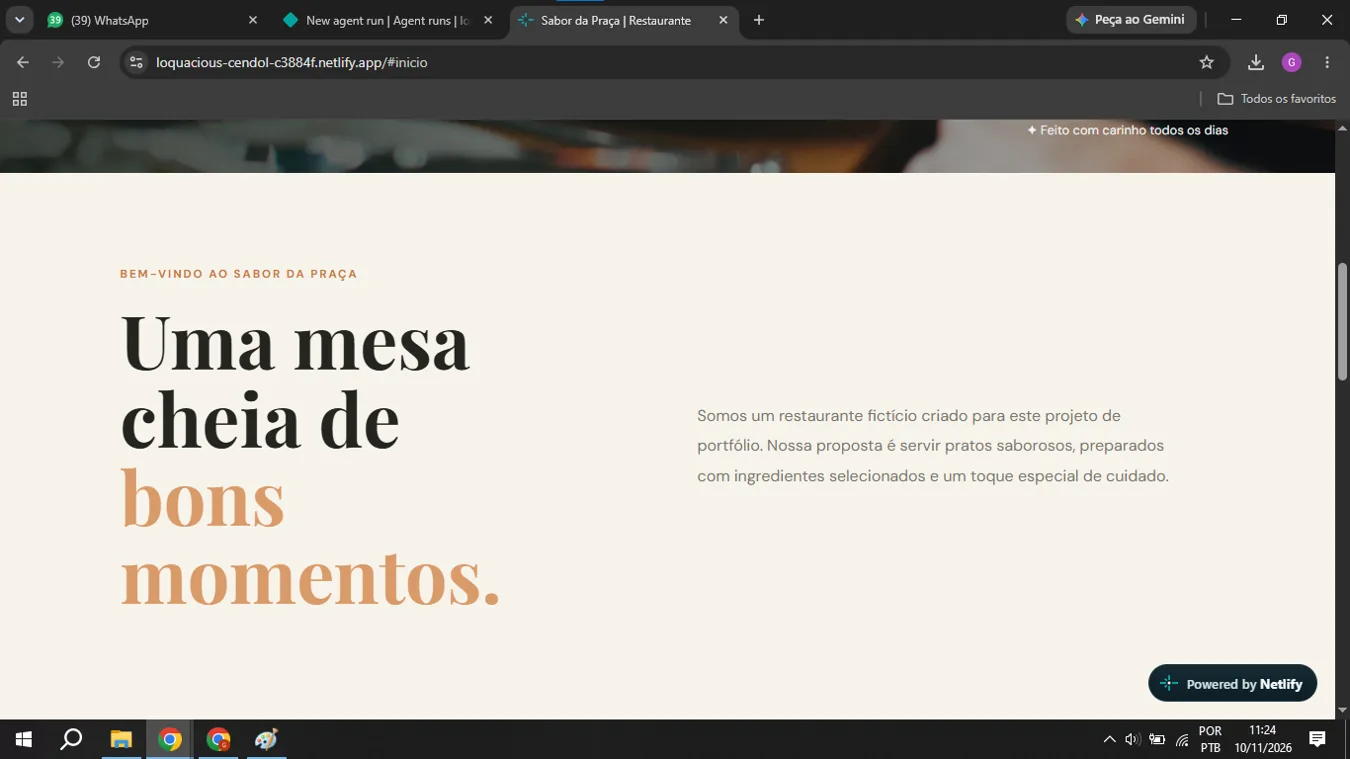
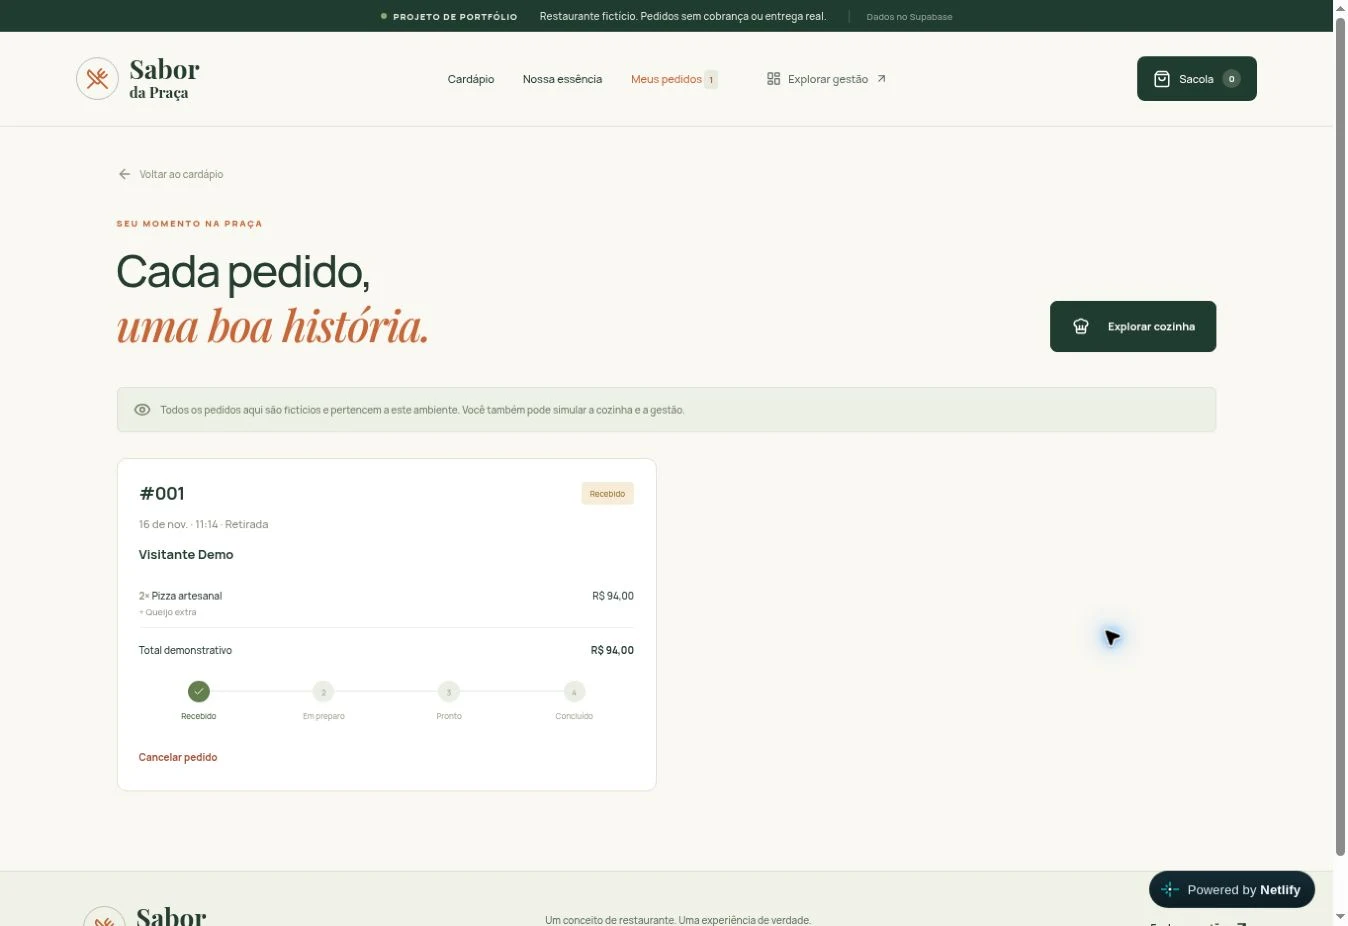
Atualiza Sabor da Praça no portfólio

diff --git a/app.js b/app.js
@@ -3,7 +3,7 @@ const PROJECTS = [
  {id:'shopcore',name:'ShopCore V6',category:'sistemas',type:'E-commerce com painel administrativo',description:'Loja virtual demonstrativa com catálogo e carrinho interativos, autenticação de administrador, gestão de preços e estoque e integração com Supabase. Não processa pagamentos reais.',technologies:['React','TypeScript','Vite','Supabase','RLS','Git'],features:['Catálogo de oito produtos demonstrativos','Login administrativo com autenticação','Gerenciamento de preço, estoque e visibilidade','Persistência no Supabase e políticas RLS','15 testes automatizados aprovados e deploy em produção'],images:['shopcore-1.webp','shopcore-2.webp','shopcore-3.webp'],url:'https://shopcore-ultimate.vercel.app/'},
  {id:'nexora',name:'Nexora',category:'sistemas',type:'Sistema web',description:'Sistema demonstrativo de gestão empresarial com autenticação, cadastro de clientes, financeiro, tarefas e relatórios. Uma experiência organizada para explorar rotinas administrativas.',technologies:['HTML','CSS','JavaScript','Supabase','SQL','RLS'],features:['Autenticação de usuários com Supabase','Cadastro e organização de clientes','Controle de entradas e saídas','Gestão de tarefas e relatórios','Políticas de acesso por usuário no banco'],images:['nexora-1.webp','nexora-2.webp','nexora-3.webp','nexora-4.webp'],url:'https://nexora-zeta-rouge.vercel.app/'},
  {id:'nexdata',name:'NexData',category:'dados',type:'Dashboard e planilhas',description:'Plataforma demonstrativa para importar, validar e visualizar informações de planilhas CSV e Excel diretamente no navegador, com painéis de análise financeira, estoque e administração.',technologies:['HTML','CSS','JavaScript','CSV','Excel','Gráficos'],features:['Importação de arquivos CSV e Excel','Dashboards financeiros e de estoque','Validação e organização de informações','Gráficos e indicadores interativos','Exportação de dados; processamento local no navegador'],images:['nexdata-1.webp','nexdata-2.webp','nexdata-3.webp','nexdata-4.webp'],url:'https://nexdata-seven.vercel.app/'},
- {id:'sabor',name:'Sabor da Praça',category:'sites',type:'Site comercial',description:'Site demonstrativo de restaurante com identidade visual própria, apresentação de cardápio e navegação responsiva. Projeto voltado à divulgação digital de um negócio local.',technologies:['HTML5','CSS3','JavaScript','Responsividade'],features:['Página inicial com apresentação do restaurante','Cardápio visual com informações de produtos','Navegação por seções','Layout adaptado a diferentes telas'],images:['sabor-1.webp','sabor-2.webp','sabor-3.webp'],url:'https://loquacious-cendol-c3884f.netlify.app/'},
+ {id:'sabor', "name": "Sabor da Praça", "category": "sites", "type": "Restaurante com pedidos e gestão", "description": "Restaurante fictício com cardápio interativo, adicionais, sacola, pedidos persistentes e acompanhamento do preparo. Cozinha e gestão demonstrativas conectadas ao Supabase, com dados isolados por visitante e interface responsiva.", "technologies": ["React", "TypeScript", "Supabase", "PostgreSQL", "Realtime", "Vite"], "features": ["Busca, categorias, favoritos e filtro vegetariano", "Adicionais, sacola e checkout fictício para retirada ou mesa", "Acompanhamento e cancelamento inicial de pedidos", "Cozinha com etapas de recebimento, preparo, pronto e conclusão", "Gestão de cardápio, disponibilidade, indicadores e exportação CSV", "Preços e estoque validados no servidor; proteção contra pedidos duplicados", "19 testes automatizados; integração online, isolamento e Realtime verificados", "Sem pagamentos ou entregas reais; papéis de cliente, cozinha e gestão simulados"], "images": ["sabor-1.webp", "sabor-2.webp", "sabor-3.webp", "sabor-4.webp"], "url": "https://loquacious-cendol-c3884f.netlify.app/"},
  {id:'bella',"name":"Bella Studio","category":"sites","type":"Site com agendamento e gestão","description":"Salão fictício com agendamento por serviço e profissional, área do cliente e painel de gestão. Interface responsiva com fotos ilustrativas, personagens e dados persistidos em ambientes demonstrativos separados.","technologies":["React","TypeScript","Cloudflare D1","SQLite","Vinext","Drizzle"],"features":["Reserva por serviço, profissional, data e horário disponível","Personagens fictícias com avatar e apresentação","Remarcação e cancelamento com regras de antecedência","Gestão de serviços, profissionais e bloqueios da agenda","Indicadores calculados sobre os atendimentos e histórico de ações","Exportações CSV e calendário; banco persistente D1","21 testes automatizados e 10 verificações HTTP na prévia","Sem cobranças reais; perfis cliente e gestora demonstrativos"],"images":["bella-1.webp","bella-2.webp","bella-3.webp","bella-4.webp"],"url":"https://merry-hamster-308b45.netlify.app/"}
 ];
 
@@ -11,14 +11,14 @@ const PROJECT_EXTRA = {
  shopcore:{challenge:['Demonstrar um comércio virtual com áreas públicas e administração protegida.','Demonstrate a shopping experience with public pages and protected administration.'],solution:['Catálogo, simulação de carrinho, login e inventário editável com Supabase.','Catalog, simulated cart, login and editable inventory using Supabase.'],validation:['15 testes automatizados, build de produção e revisão das políticas RLS.','15 automated tests, production build and RLS policy review.']},
  nexora:{challenge:['Organizar informações de gestão em uma interface demonstrativa.','Organize management information in a demonstration interface.'],solution:['Painéis, cadastro, tarefas e autenticação com Supabase.','Dashboards, records, tasks and Supabase authentication.'],validation:['Projeto demonstrativo publicado; funcionalidades descritas sem métricas comerciais.','Published demo; features described without claiming commercial metrics.']},
  nexdata:{challenge:['Tornar planilhas mais fáceis de explorar no navegador.','Make spreadsheets easier to explore in the browser.'],solution:['Importação e visualização de CSV/Excel, indicadores e gráficos.','CSV/Excel importing and visualization with metrics and charts.'],validation:['Demonstração local de tratamento de dados; sem integração financeira real.','Local data-processing demonstration; no real financial integration.']},
- sabor:{challenge:['Apresentar um restaurante fictício com clareza e identidade própria.','Present a fictional restaurant with clarity and its own visual identity.'],solution:['Cardápio visual, seções navegáveis e layout responsivo.','Visual menu, navigable sections and responsive layout.'],validation:['Projeto autoral e demonstrativo, sem pedidos comerciais reais.','Independent demo without real commercial orders.']},
+ sabor:{"challenge": ["Conectar a experiência de um restaurante fictício do cardápio à operação, mantendo os dados separados por visitante.", "Connect a fictional restaurant menu to its operations while isolating each visitor’s demonstration data."], "solution": ["React e TypeScript com pedidos persistentes, regras de estoque e preços no PostgreSQL, cozinha, gestão e sinalização Realtime.", "React and TypeScript with persistent orders, PostgreSQL inventory and pricing rules, kitchen, management and Realtime signals."], "validation": ["19 testes automatizados aprovados. Integração online, idempotência, isolamento, fluxo da cozinha e Realtime verificados. Sem transações comerciais reais.", "19 automated tests passed. Online integration, idempotency, isolation, kitchen workflow and Realtime verified. No real commercial transactions."]},
  bella:{challenge:['Evoluir um site de beleza para demonstrar atendimento e gestão conectados.','Evolve a beauty website into connected booking and management experiences.'],solution:['Agendamento com regras no servidor, área do cliente, gestão, indicadores e personagens fictícias.','Server-validated booking, customer area, management, metrics and fictional characters.'],validation:['21 testes automatizados e 10 verificações HTTP na prévia. Sem pagamentos reais; papéis demonstrativos.','21 automated tests and 10 HTTP checks in preview. No real payments; demonstration roles.']}
 };
 const PROJECT_EN={
  shopcore:{type:'E-commerce with admin dashboard',description:'Demonstration store featuring an interactive catalog and cart, admin login, pricing and inventory management, and Supabase integration. No real payments.',features:['Eight demo products','Authenticated administrator login','Price, inventory and visibility management','Supabase persistence and RLS policies','15 automated tests passed and production deployment']},
  nexora:{type:'Web management system',description:'Demonstration business management system featuring authentication, customer records, finances, tasks and reports.',features:['Supabase user authentication','Customer records and organization','Income and expenses overview','Tasks and reports','User-scoped database policies']},
  nexdata:{type:'Dashboard & spreadsheets',description:'Browser-based demonstration platform for importing, validating and visualizing CSV and Excel spreadsheets.',features:['CSV and Excel imports','Financial and inventory dashboards','Data validation and organization','Interactive charts and indicators','Export and local browser processing']},
- sabor:{type:'Business website',description:'Demonstration restaurant website with custom visual identity, menu presentation and responsive navigation.',features:['Restaurant landing section','Visual menu and product information','Section navigation','Responsive layout']},
+ sabor:{"type": "Restaurant ordering and management", "description": "Fictional restaurant featuring an interactive menu, extras, cart, persistent orders and preparation tracking. Demonstration kitchen and management views use Supabase, visitor-isolated data and a responsive interface.", "features": ["Search, categories, favorites and vegetarian filter", "Extras, cart and simulated pickup or table checkout", "Order tracking and initial cancellation", "Kitchen workflow from received to completed", "Menu, availability, metrics and CSV exports", "Server-validated prices and stock; duplicate-order protection", "19 automated tests; online integration, isolation and Realtime checked", "No real payments or deliveries; simulated customer, kitchen and management roles"]},
  bella:{type:'Website with booking and management',description:'Fictional beauty studio with service and professional booking, a customer area and a management dashboard. Responsive design, illustrative photos, characters and persistent data in separate demo environments.',features:['Book an available service, professional, date and time','Fictional professionals with illustrated avatars and introductions','Rescheduling and cancellation with advance-notice rules','Manage services, professionals and blocked time','Metrics calculated from appointments and an activity history','CSV/calendar exports and persistent D1 storage','21 automated tests and 10 HTTP checks in preview','No real charges; customer and manager are demo perspectives']}
 };
 const localizedProject=p=>window.GL_LANG==='en'?{...p,...PROJECT_EN[p.id]}:p;
@@ -135,7 +135,7 @@ const observer=('IntersectionObserver'in window)?new IntersectionObserver(entrie
   const commands={
     help:'COMANDOS DISPONÍVEIS\nhelp       mostra esta lista\nabout      sobre Gabriel\nprojects   lista projetos\nnexora     abre estudo de caso Nexora\nshopcore   abre estudo de caso ShopCore\nnexdata    abre estudo de caso NexData\nsabor      abre estudo de caso Sabor da Praça\nbella      abre estudo de caso Bella Studio\nskills     habilidades e tecnologias\ncontact    dados de contato\nclear      limpa este terminal\nmatrix     surpresa visual\nexit       fecha o terminal',
     about:'Gabriel Lima — estudante de Análise e Desenvolvimento de Sistemas na Estácio. Desenvolvimento web, interfaces, dashboards e sistemas autorais demonstrativos.',
-    projects:'[01] ShopCore V6 — e-commerce com Supabase\n[02] Nexora — gestão web com Supabase\n[03] NexData — análise de planilhas no navegador\n[04] Sabor da Praça — site para restaurante\n[05] Bella Studio — agendamento e gestão demonstrativos\n\nDigite o nome do projeto para abrir detalhes.',
+    projects:'[01] ShopCore V6 — e-commerce com Supabase\n[02] Nexora — gestão web com Supabase\n[03] NexData — análise de planilhas no navegador\n[04] Sabor da Praça — pedidos, cozinha e gestão com Supabase\n[05] Bella Studio — agendamento e gestão demonstrativos\n\nDigite o nome do projeto para abrir detalhes.',
     skills:'HTML5 / CSS3 / JavaScript / Supabase / SQL / CSV / Excel / Responsividade / Interfaces / Dashboards',
     contact:'WhatsApp: wa.me/5531972120246\nE-mail: gf.dlimaa25@gmail.com\nGitHub: github.com/GFDLima\nLinkedIn: gabriel-lima-565636184/\n\nUse a seção de contato para enviar uma mensagem.'
   };
@@ -155,7 +155,7 @@ const observer=('IntersectionObserver'in window)?new IntersectionObserver(entrie
       if(motionEnabled){document.body.classList.add('neon-flash');setTimeout(()=>document.body.classList.remove('neon-flash'),650)}
       return;
     }
-    const translations=window.GL_LANG==='en'?{help:'AVAILABLE COMMANDS\nhelp — this list\nabout — about Gabriel\nprojects — list projects\nshopcore / nexora / nexdata / sabor / bella — open a case study\nskills — technologies\ncontact — contact details\nclear — clear terminal\nmatrix — visual surprise\nexit — close terminal',about:'Gabriel Lima — Systems Analysis and Development student at Estácio, building demonstration web applications.',projects:'[01] ShopCore — e-commerce with Supabase\n[02] Nexora — business management\n[03] NexData — spreadsheet dashboards\n[04] Sabor da Praça — restaurant website\n[05] Bella Studio — booking and management demo',skills:'HTML5 / CSS3 / JavaScript / React / TypeScript / Supabase / SQL / CSV / Excel / Git',contact:'WhatsApp: wa.me/5531972120246\nEmail: gf.dlimaa25@gmail.com\nGitHub: github.com/GFDLima\nLinkedIn: gabriel-lima-565636184/'}:commands;appendLine(translations[typed]||projectText('Comando desconhecido. Digite help para ver as opções.','Unknown command. Type help for options.'),translations[typed]?'answer':'error');
+    const translations=window.GL_LANG==='en'?{help:'AVAILABLE COMMANDS\nhelp — this list\nabout — about Gabriel\nprojects — list projects\nshopcore / nexora / nexdata / sabor / bella — open a case study\nskills — technologies\ncontact — contact details\nclear — clear terminal\nmatrix — visual surprise\nexit — close terminal',about:'Gabriel Lima — Systems Analysis and Development student at Estácio, building demonstration web applications.',projects:'[01] ShopCore — e-commerce with Supabase\n[02] Nexora — business management\n[03] NexData — spreadsheet dashboards\n[04] Sabor da Praça — ordering, kitchen and management with Supabase\n[05] Bella Studio — booking and management demo',skills:'HTML5 / CSS3 / JavaScript / React / TypeScript / Supabase / SQL / CSV / Excel / Git',contact:'WhatsApp: wa.me/5531972120246\nEmail: gf.dlimaa25@gmail.com\nGitHub: github.com/GFDLima\nLinkedIn: gabriel-lima-565636184/'}:commands;appendLine(translations[typed]||projectText('Comando desconhecido. Digite help para ver as opções.','Unknown command. Type help for options.'),translations[typed]?'answer':'error');
   }
   function openTerminal(){
     if(dialog.open)dialog.close();
